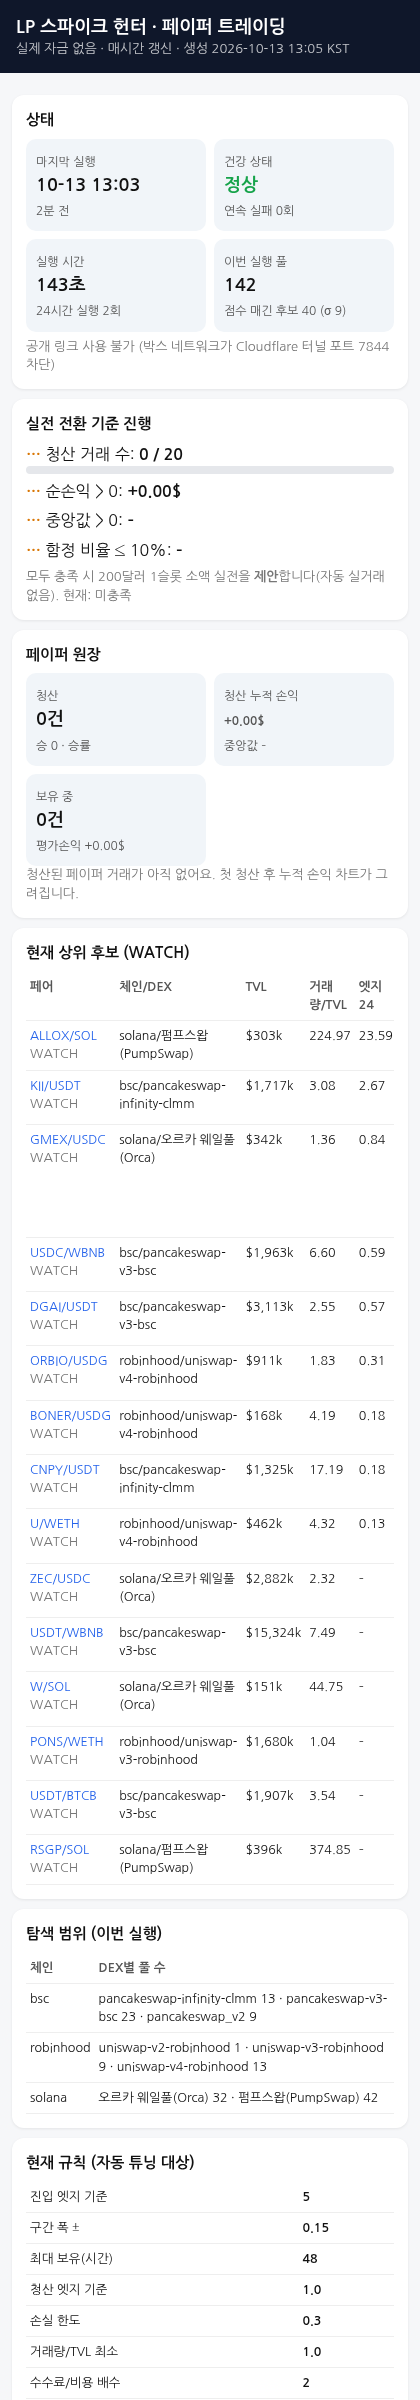
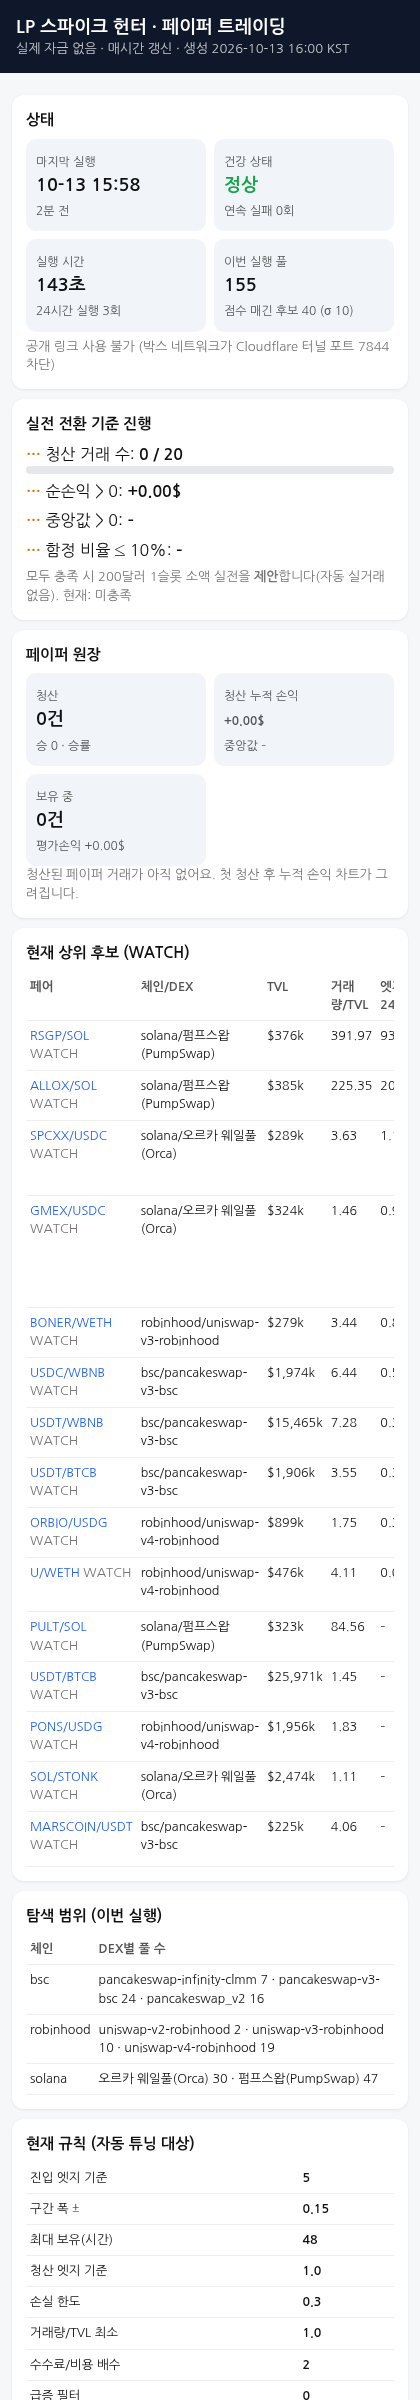
update 2026-10-13 16:00 KST

diff --git a/index.html b/index.html
@@ -12,12 +12,12 @@ th{color:#555;font-weight:600} .scroll{overflow-x:auto} .pos{color:#16a34a} .neg
 .bar{height:8px;background:#e5e7eb;border-radius:4px;overflow:hidden} .bar i{display:block;height:100%;background:#2563eb}
 .chart{width:100%;height:auto} a{color:#2563eb;text-decoration:none} .chg{color:#7c3aed;font-weight:600}
 </style></head><body>
-<header><h1>LP 스파이크 헌터 · 페이퍼 트레이딩</h1><div class="sub">실제 자금 없음 · 매시간 갱신 · 생성 2026-10-13 13:05 KST</div></header><main>
+<header><h1>LP 스파이크 헌터 · 페이퍼 트레이딩</h1><div class="sub">실제 자금 없음 · 매시간 갱신 · 생성 2026-10-13 16:00 KST</div></header><main>
 <div class="card"><h2>상태</h2><div class="grid">
-<div class="kpi"><span>마지막 실행</span><b>10-13 13:03</b><span>2분 전</span></div>
+<div class="kpi"><span>마지막 실행</span><b>10-13 15:58</b><span>2분 전</span></div>
 <div class="kpi"><span>건강 상태</span><b class="ok">정상</b><span>연속 실패 0회</span></div>
-<div class="kpi"><span>실행 시간</span><b>143초</b><span>24시간 실행 2회</span></div>
-<div class="kpi"><span>이번 실행 풀</span><b>142</b><span>점수 매긴 후보 40 (σ 9)</span></div>
+<div class="kpi"><span>실행 시간</span><b>143초</b><span>24시간 실행 3회</span></div>
+<div class="kpi"><span>이번 실행 풀</span><b>155</b><span>점수 매긴 후보 40 (σ 10)</span></div>
 </div><div class="muted" style="margin-top:6px">공개 링크 사용 불가 (박스 네트워크가 Cloudflare 터널 포트 7844 차단)</div></div>
 <div class="card"><h2>실전 전환 기준 진행</h2>
 <div style="margin:6px 0"><b class="warn">…</b> 청산 거래 수: <b>0 / 20</b><div class="bar"><i style="width:0%"></i></div></div>
@@ -32,26 +32,26 @@ th{color:#555;font-weight:600} .scroll{overflow-x:auto} .pos{color:#16a34a} .neg
 </div><div class="muted">청산된 페이퍼 거래가 아직 없어요. 첫 청산 후 누적 손익 차트가 그려집니다.</div>
 </div>
 <div class="card"><h2>현재 상위 후보 (WATCH)</h2><div class="scroll"><table><tr><th>페어</th><th>체인/DEX</th><th>TVL</th><th>거래량/TVL</th><th>엣지24</th><th>엣지6</th><th>진입 안 하는 이유</th></tr>
-<tr><td><a href='https://www.geckoterminal.com/solana/pools/2Ufupi3yBNNHRknEfag4eNTEyDPx6UN4uWd7mmAoVNpy'>ALLOX/SOL</a> <span class='muted'>WATCH</span></td><td>solana/펌프스왑(PumpSwap)</td><td>$303k</td><td>224.97</td><td>23.59</td><td>50.49</td><td><span class="tag">너무 신규</span></td></tr>
-<tr><td><a href='https://www.geckoterminal.com/bsc/pools/0xf43fdb854021ddeb41e06ac1d6e5df475197038ba5d3cba147f469a56870cd1b'>KII/USDT</a> <span class='muted'>WATCH</span></td><td>bsc/pancakeswap-infinity-clmm</td><td>$1,717k</td><td>3.08</td><td>2.67</td><td>4.42</td><td><span class="tag">24h 엣지 부족 (edge24&lt;5)</span><span class="tag">6h 엣지 부족 (edge6&lt;5)</span><span class="tag">보안 플래그 (security:top10_holders=99%)</span><span class="tag">수수료&lt;비용 (fee24&lt;2x_cost)</span></td></tr>
-<tr><td><a href='https://www.geckoterminal.com/solana/pools/hSQxf9L7Tpwf1PKjWWSbnew2vyTPpGrfWwNa4gq2n2x'>GMEX/USDC</a> <span class='muted'>WATCH</span></td><td>solana/오르카 웨일풀(Orca)</td><td>$342k</td><td>1.36</td><td>0.84</td><td>0.24</td><td><span class="tag">24h 엣지 부족 (edge24&lt;5)</span><span class="tag">6h 엣지 부족 (edge6&lt;5)</span><span class="tag">보안 플래그 (security:mintable|freezable|balance_mutable_authority|transfer_hook_upgradable|top10_holders=98%)</span><span class="tag">수수료&lt;비용 (fee24&lt;2x_cost)</span><span class="tag">유동성 이력 부족(&lt;3h) (k_unsettled(&lt;3h liquidity history))</span><span class="tag">토큰-2022 위험 확장 (t22:GMEX.pausableConfig|GMEX.permanentDelegate)</span></td></tr>
-<tr><td><a href='https://www.geckoterminal.com/bsc/pools/0xf2688fb5b81049dfb7703ada5e770543770612c4'>USDC/WBNB</a> <span class='muted'>WATCH</span></td><td>bsc/pancakeswap-v3-bsc</td><td>$1,963k</td><td>6.60</td><td>0.59</td><td>0.87</td><td><span class="tag">24h 엣지 부족 (edge24&lt;5)</span><span class="tag">6h 엣지 부족 (edge6&lt;5)</span><span class="tag">수수료&lt;비용 (fee24&lt;2x_cost)</span><span class="tag">유동성 이력 부족(&lt;3h) (k_unsettled(&lt;3h liquidity history))</span></td></tr>
-<tr><td><a href='https://www.geckoterminal.com/bsc/pools/0x0e6e1f47c64f517fc9dc35698718c7dfc708d534'>DGAI/USDT</a> <span class='muted'>WATCH</span></td><td>bsc/pancakeswap-v3-bsc</td><td>$3,113k</td><td>2.55</td><td>0.57</td><td>0.64</td><td><span class="tag">24h 엣지 부족 (edge24&lt;5)</span><span class="tag">6h 엣지 부족 (edge6&lt;5)</span><span class="tag">보안 플래그 (security:mintable)</span><span class="tag">수수료&lt;비용 (fee24&lt;2x_cost)</span><span class="tag">유동성 이력 부족(&lt;3h) (k_unsettled(&lt;3h liquidity history))</span></td></tr>
-<tr><td><a href='https://www.geckoterminal.com/robinhood/pools/0xea9f200e13055b82f175f44f592c4c13dd8c9d9320a66487d3c5cd90d68550ef'>ORBIO/USDG</a> <span class='muted'>WATCH</span></td><td>robinhood/uniswap-v4-robinhood</td><td>$911k</td><td>1.83</td><td>0.31</td><td>0.25</td><td><span class="tag">24h 엣지 부족 (edge24&lt;5)</span><span class="tag">6h 엣지 부족 (edge6&lt;5)</span><span class="tag">보안 플래그 (security:security_unchecked)</span><span class="tag">유동성 이력 부족(&lt;3h) (k_unsettled(&lt;3h liquidity history))</span></td></tr>
-<tr><td><a href='https://www.geckoterminal.com/robinhood/pools/0xfec7b1efe77aa60887986db5bcbfff39ca40b56d964bb8ce3d9dd0d9baaca4d4'>BONER/USDG</a> <span class='muted'>WATCH</span></td><td>robinhood/uniswap-v4-robinhood</td><td>$168k</td><td>4.19</td><td>0.18</td><td>0.47</td><td><span class="tag">24h 엣지 부족 (edge24&lt;5)</span><span class="tag">6h 엣지 부족 (edge6&lt;5)</span><span class="tag">보안 플래그 (security:security_unchecked)</span><span class="tag">유동성 이력 부족(&lt;3h) (k_unsettled(&lt;3h liquidity history))</span></td></tr>
-<tr><td><a href='https://www.geckoterminal.com/bsc/pools/0xc7bb4cf4c51fd655ea0368255929f1a42ba1a67e1e8805c54e81d61dc28f3f74'>CNPY/USDT</a> <span class='muted'>WATCH</span></td><td>bsc/pancakeswap-infinity-clmm</td><td>$1,325k</td><td>17.19</td><td>0.18</td><td>0.19</td><td><span class="tag">24h 엣지 부족 (edge24&lt;5)</span><span class="tag">6h 엣지 부족 (edge6&lt;5)</span><span class="tag">보안 플래그 (security:mintable|top10_holders=76%)</span></td></tr>
-<tr><td><a href='https://www.geckoterminal.com/robinhood/pools/0xa5d2fa75a050327b6a0e3a6020994fea5a9df413e0e031045399411e1616b2e3'>U/WETH</a> <span class='muted'>WATCH</span></td><td>robinhood/uniswap-v4-robinhood</td><td>$462k</td><td>4.32</td><td>0.13</td><td>0.25</td><td><span class="tag">24h 엣지 부족 (edge24&lt;5)</span><span class="tag">6h 엣지 부족 (edge6&lt;5)</span><span class="tag">보안 플래그 (security:security_unchecked)</span><span class="tag">수수료&lt;비용 (fee24&lt;2x_cost)</span><span class="tag">유동성 이력 부족(&lt;3h) (k_unsettled(&lt;3h liquidity history))</span></td></tr>
-<tr><td><a href='https://www.geckoterminal.com/solana/pools/GTHKH8s82ZR8GTSFZ1dUu6wfdxhy59wpMShxzG5zjiPm'>ZEC/USDC</a> <span class='muted'>WATCH</span></td><td>solana/오르카 웨일풀(Orca)</td><td>$2,882k</td><td>2.32</td><td>–</td><td>–</td><td><span class="tag">변동성 데이터 없음</span><span class="tag">24h 엣지 부족 (edge24&lt;5)</span><span class="tag">6h 엣지 부족 (edge6&lt;5)</span><span class="tag">보안 플래그 (security:security_unchecked)</span><span class="tag">유동성 이력 부족(&lt;3h) (k_unsettled(&lt;3h liquidity history))</span></td></tr>
-<tr><td><a href='https://www.geckoterminal.com/bsc/pools/0x172fcd41e0913e95784454622d1c3724f546f849'>USDT/WBNB</a> <span class='muted'>WATCH</span></td><td>bsc/pancakeswap-v3-bsc</td><td>$15,324k</td><td>7.49</td><td>–</td><td>–</td><td><span class="tag">변동성 데이터 없음</span><span class="tag">24h 엣지 부족 (edge24&lt;5)</span><span class="tag">6h 엣지 부족 (edge6&lt;5)</span><span class="tag">유동성 이력 부족(&lt;3h) (k_unsettled(&lt;3h liquidity history))</span></td></tr>
-<tr><td><a href='https://www.geckoterminal.com/solana/pools/CwHuXNNkj5inuj2ZXaU1DtjA5Nxfoiy4nNoc1PQQJxTR'>W/SOL</a> <span class='muted'>WATCH</span></td><td>solana/오르카 웨일풀(Orca)</td><td>$151k</td><td>44.75</td><td>–</td><td>–</td><td><span class="tag">변동성 데이터 없음</span><span class="tag">24h 엣지 부족 (edge24&lt;5)</span><span class="tag">6h 엣지 부족 (edge6&lt;5)</span><span class="tag">유동성 이력 부족(&lt;3h) (k_unsettled(&lt;3h liquidity history))</span></td></tr>
-<tr><td><a href='https://www.geckoterminal.com/robinhood/pools/0xed50bdeea8adc232f159486192a4157281d722ff'>PONS/WETH</a> <span class='muted'>WATCH</span></td><td>robinhood/uniswap-v3-robinhood</td><td>$1,680k</td><td>1.04</td><td>–</td><td>–</td><td><span class="tag">변동성 데이터 없음</span><span class="tag">24h 엣지 부족 (edge24&lt;5)</span><span class="tag">6h 엣지 부족 (edge6&lt;5)</span><span class="tag">유동성 이력 부족(&lt;3h) (k_unsettled(&lt;3h liquidity history))</span></td></tr>
-<tr><td><a href='https://www.geckoterminal.com/bsc/pools/0x247f51881d1e3ae0f759afb801413a6c948ef442'>USDT/BTCB</a> <span class='muted'>WATCH</span></td><td>bsc/pancakeswap-v3-bsc</td><td>$1,907k</td><td>3.54</td><td>–</td><td>–</td><td><span class="tag">변동성 데이터 없음</span><span class="tag">24h 엣지 부족 (edge24&lt;5)</span><span class="tag">6h 엣지 부족 (edge6&lt;5)</span><span class="tag">유동성 이력 부족(&lt;3h) (k_unsettled(&lt;3h liquidity history))</span></td></tr>
-<tr><td><a href='https://www.geckoterminal.com/solana/pools/D3vzKTEJntE3wSu4QaPd79e2bnifnHggVDVewu1ukkAJ'>RSGP/SOL</a> <span class='muted'>WATCH</span></td><td>solana/펌프스왑(PumpSwap)</td><td>$396k</td><td>374.85</td><td>–</td><td>–</td><td><span class="tag">변동성 데이터 없음</span><span class="tag">24h 엣지 부족 (edge24&lt;5)</span><span class="tag">6h 엣지 부족 (edge6&lt;5)</span></td></tr>
+<tr><td><a href='https://www.geckoterminal.com/solana/pools/D3vzKTEJntE3wSu4QaPd79e2bnifnHggVDVewu1ukkAJ'>RSGP/SOL</a> <span class='muted'>WATCH</span></td><td>solana/펌프스왑(PumpSwap)</td><td>$376k</td><td>391.97</td><td>93.13</td><td>95.19</td><td><span class="tag">보안 플래그 (security:security_unchecked)</span></td></tr>
+<tr><td><a href='https://www.geckoterminal.com/solana/pools/2Ufupi3yBNNHRknEfag4eNTEyDPx6UN4uWd7mmAoVNpy'>ALLOX/SOL</a> <span class='muted'>WATCH</span></td><td>solana/펌프스왑(PumpSwap)</td><td>$385k</td><td>225.35</td><td>20.75</td><td>35.86</td><td><span class="tag">너무 신규</span></td></tr>
+<tr><td><a href='https://www.geckoterminal.com/solana/pools/ASAxmEaTT1HFe3mVC3zbKDE4tuB28W7732XQrEMBM5W2'>SPCXX/USDC</a> <span class='muted'>WATCH</span></td><td>solana/오르카 웨일풀(Orca)</td><td>$289k</td><td>3.63</td><td>1.13</td><td>0.64</td><td><span class="tag">24h 엣지 부족 (edge24&lt;5)</span><span class="tag">6h 엣지 부족 (edge6&lt;5)</span><span class="tag">보안 플래그 (security:security_unchecked)</span><span class="tag">수수료&lt;비용 (fee24&lt;2x_cost)</span><span class="tag">토큰-2022 위험 확장 (t22:SPCXX.pausableConfig|SPCXX.permanentDelegate)</span></td></tr>
+<tr><td><a href='https://www.geckoterminal.com/solana/pools/hSQxf9L7Tpwf1PKjWWSbnew2vyTPpGrfWwNa4gq2n2x'>GMEX/USDC</a> <span class='muted'>WATCH</span></td><td>solana/오르카 웨일풀(Orca)</td><td>$324k</td><td>1.46</td><td>0.99</td><td>0.19</td><td><span class="tag">24h 엣지 부족 (edge24&lt;5)</span><span class="tag">6h 엣지 부족 (edge6&lt;5)</span><span class="tag">보안 플래그 (security:mintable|freezable|balance_mutable_authority|transfer_hook_upgradable|top10_holders=98%)</span><span class="tag">수수료&lt;비용 (fee24&lt;2x_cost)</span><span class="tag">토큰-2022 위험 확장 (t22:GMEX.pausableConfig|GMEX.permanentDelegate)</span></td></tr>
+<tr><td><a href='https://www.geckoterminal.com/robinhood/pools/0xbd5cd6515ca6285941fbc177381dc8ed4844e6b8'>BONER/WETH</a> <span class='muted'>WATCH</span></td><td>robinhood/uniswap-v3-robinhood</td><td>$279k</td><td>3.44</td><td>0.80</td><td>0.90</td><td><span class="tag">24h 엣지 부족 (edge24&lt;5)</span><span class="tag">6h 엣지 부족 (edge6&lt;5)</span><span class="tag">보안 플래그 (security:security_unchecked)</span></td></tr>
+<tr><td><a href='https://www.geckoterminal.com/bsc/pools/0xf2688fb5b81049dfb7703ada5e770543770612c4'>USDC/WBNB</a> <span class='muted'>WATCH</span></td><td>bsc/pancakeswap-v3-bsc</td><td>$1,974k</td><td>6.44</td><td>0.55</td><td>0.50</td><td><span class="tag">24h 엣지 부족 (edge24&lt;5)</span><span class="tag">6h 엣지 부족 (edge6&lt;5)</span><span class="tag">수수료&lt;비용 (fee24&lt;2x_cost)</span></td></tr>
+<tr><td><a href='https://www.geckoterminal.com/bsc/pools/0x172fcd41e0913e95784454622d1c3724f546f849'>USDT/WBNB</a> <span class='muted'>WATCH</span></td><td>bsc/pancakeswap-v3-bsc</td><td>$15,465k</td><td>7.28</td><td>0.39</td><td>0.36</td><td><span class="tag">24h 엣지 부족 (edge24&lt;5)</span><span class="tag">6h 엣지 부족 (edge6&lt;5)</span><span class="tag">수수료&lt;비용 (fee24&lt;2x_cost)</span></td></tr>
+<tr><td><a href='https://www.geckoterminal.com/bsc/pools/0x247f51881d1e3ae0f759afb801413a6c948ef442'>USDT/BTCB</a> <span class='muted'>WATCH</span></td><td>bsc/pancakeswap-v3-bsc</td><td>$1,906k</td><td>3.55</td><td>0.38</td><td>0.36</td><td><span class="tag">24h 엣지 부족 (edge24&lt;5)</span><span class="tag">6h 엣지 부족 (edge6&lt;5)</span><span class="tag">수수료&lt;비용 (fee24&lt;2x_cost)</span></td></tr>
+<tr><td><a href='https://www.geckoterminal.com/robinhood/pools/0xea9f200e13055b82f175f44f592c4c13dd8c9d9320a66487d3c5cd90d68550ef'>ORBIO/USDG</a> <span class='muted'>WATCH</span></td><td>robinhood/uniswap-v4-robinhood</td><td>$899k</td><td>1.75</td><td>0.31</td><td>0.25</td><td><span class="tag">24h 엣지 부족 (edge24&lt;5)</span><span class="tag">6h 엣지 부족 (edge6&lt;5)</span><span class="tag">보안 플래그 (security:security_unchecked)</span></td></tr>
+<tr><td><a href='https://www.geckoterminal.com/robinhood/pools/0xa5d2fa75a050327b6a0e3a6020994fea5a9df413e0e031045399411e1616b2e3'>U/WETH</a> <span class='muted'>WATCH</span></td><td>robinhood/uniswap-v4-robinhood</td><td>$476k</td><td>4.11</td><td>0.03</td><td>0.04</td><td><span class="tag">24h 엣지 부족 (edge24&lt;5)</span><span class="tag">6h 엣지 부족 (edge6&lt;5)</span><span class="tag">보안 플래그 (security:security_unchecked)</span><span class="tag">수수료&lt;비용 (fee24&lt;2x_cost)</span><span class="tag">유동성 이력 부족(&lt;3h) (k_unsettled(&lt;3h liquidity history))</span></td></tr>
+<tr><td><a href='https://www.geckoterminal.com/solana/pools/7mHdMhMnEpXSjF6hoj2wxRnzkSE1KwePq5UErjwnrLs7'>PULT/SOL</a> <span class='muted'>WATCH</span></td><td>solana/펌프스왑(PumpSwap)</td><td>$323k</td><td>84.56</td><td>–</td><td>–</td><td><span class="tag">변동성 데이터 없음</span><span class="tag">24h 엣지 부족 (edge24&lt;5)</span><span class="tag">6h 엣지 부족 (edge6&lt;5)</span><span class="tag">너무 신규</span></td></tr>
+<tr><td><a href='https://www.geckoterminal.com/bsc/pools/0x46cf1cf8c69595804ba91dfdd8d6b960c9b0a7c4'>USDT/BTCB</a> <span class='muted'>WATCH</span></td><td>bsc/pancakeswap-v3-bsc</td><td>$25,971k</td><td>1.45</td><td>–</td><td>–</td><td><span class="tag">변동성 데이터 없음</span><span class="tag">24h 엣지 부족 (edge24&lt;5)</span><span class="tag">6h 엣지 부족 (edge6&lt;5)</span></td></tr>
+<tr><td><a href='https://www.geckoterminal.com/robinhood/pools/0x4be9657ec9002e528f4f17a5c43edc525a07f888f7b180c2afbf75e096c4f38a'>PONS/USDG</a> <span class='muted'>WATCH</span></td><td>robinhood/uniswap-v4-robinhood</td><td>$1,956k</td><td>1.83</td><td>–</td><td>–</td><td><span class="tag">변동성 데이터 없음</span><span class="tag">24h 엣지 부족 (edge24&lt;5)</span><span class="tag">6h 엣지 부족 (edge6&lt;5)</span></td></tr>
+<tr><td><a href='https://www.geckoterminal.com/solana/pools/AfrddTGYwCVEQB1gxCAhR8i48o6qtxYqksdVkeLudEhg'>SOL/STONK</a> <span class='muted'>WATCH</span></td><td>solana/오르카 웨일풀(Orca)</td><td>$2,474k</td><td>1.11</td><td>–</td><td>–</td><td><span class="tag">변동성 데이터 없음</span><span class="tag">24h 엣지 부족 (edge24&lt;5)</span><span class="tag">6h 엣지 부족 (edge6&lt;5)</span></td></tr>
+<tr><td><a href='https://www.geckoterminal.com/bsc/pools/0x14ca9d552ed2cf0d5dfd1f89bc6793a464e2ed16'>MARSCOIN/USDT</a> <span class='muted'>WATCH</span></td><td>bsc/pancakeswap-v3-bsc</td><td>$225k</td><td>4.06</td><td>–</td><td>–</td><td><span class="tag">변동성 데이터 없음</span><span class="tag">24h 엣지 부족 (edge24&lt;5)</span><span class="tag">6h 엣지 부족 (edge6&lt;5)</span><span class="tag">보안 플래그 (security:top10_holders=61%)</span><span class="tag">유동성 이력 부족(&lt;3h) (k_unsettled(&lt;3h liquidity history))</span></td></tr>
 </table></div></div>
 <div class="card"><h2>탐색 범위 (이번 실행)</h2><table><tr><th>체인</th><th>DEX별 풀 수</th></tr>
-<tr><td>bsc</td><td>pancakeswap-infinity-clmm 13 · pancakeswap-v3-bsc 23 · pancakeswap_v2 9</td></tr>
-<tr><td>robinhood</td><td>uniswap-v2-robinhood 1 · uniswap-v3-robinhood 9 · uniswap-v4-robinhood 13</td></tr>
-<tr><td>solana</td><td>오르카 웨일풀(Orca) 32 · 펌프스왑(PumpSwap) 42</td></tr>
+<tr><td>bsc</td><td>pancakeswap-infinity-clmm 7 · pancakeswap-v3-bsc 24 · pancakeswap_v2 16</td></tr>
+<tr><td>robinhood</td><td>uniswap-v2-robinhood 2 · uniswap-v3-robinhood 10 · uniswap-v4-robinhood 19</td></tr>
+<tr><td>solana</td><td>오르카 웨일풀(Orca) 30 · 펌프스왑(PumpSwap) 47</td></tr>
 </table></div>
 <div class="card"><h2>현재 규칙 (자동 튜닝 대상)</h2><table>
 <tr><td>진입 엣지 기준</td><td><b>5</b></td></tr>
@@ -63,6 +63,7 @@ th{color:#555;font-weight:600} .scroll{overflow-x:auto} .pos{color:#16a34a} .neg
 <tr><td>수수료/비용 배수</td><td><b>2</b></td></tr>
 <tr><td>급증 필터</td><td><b>0</b></td></tr>
 </table><h2 style="margin-top:12px">튜닝 기록 (최근)</h2>
+<div style="margin:6px 0;font-size:13px"><b class="muted">2026-10-13 16:00 KST</b> 유지 2026-10-13 16:00 KST: {&#x27;E&#x27;: 5, &#x27;W&#x27;: 0.15, &#x27;H&#x27;: 48, &#x27;X&#x27;: 1.0, &#x27;LL&#x27;: 0.3, &#x27;T&#x27;: 1.0, &#x27;FC&#x27;: 2} 유지. 이유: no improve (mean +7.11%→+7.06%, median +3.21%→+3.08%). 현재 OOS n=53 hit 81% mean +7.11% median +3.21% Σ $+753 / 후보 {&#x27;E&#x27;: 5, &#x27;W&#x27;: 0.15, &#x27;H&#x27;: 48, &#x27;X&#x27;: 0.5, &#x27;LL&#x27;: 0.3, &#x27;T&#x27;: 1.0, &#x27;FC&#x27;: 1} OOS n=53 hit 81% mean +7.06% median +3.08% Σ $+748. 페이퍼 청산 0건 Σ $+0.00. (3.6s)</div>
 <div style="margin:6px 0;font-size:13px"><b class="muted">2026-10-13 13:05 KST</b> 유지 2026-10-13 13:05 KST: {&#x27;E&#x27;: 5, &#x27;W&#x27;: 0.15, &#x27;H&#x27;: 48, &#x27;X&#x27;: 1.0, &#x27;LL&#x27;: 0.3, &#x27;T&#x27;: 1.0, &#x27;FC&#x27;: 2} 유지. 이유: no improve (mean +7.11%→+7.06%, median +3.21%→+3.08%). 현재 OOS n=53 hit 81% mean +7.11% median +3.21% Σ $+753 / 후보 {&#x27;E&#x27;: 5, &#x27;W&#x27;: 0.15, &#x27;H&#x27;: 48, &#x27;X&#x27;: 0.5, &#x27;LL&#x27;: 0.3, &#x27;T&#x27;: 1.0, &#x27;FC&#x27;: 1} OOS n=53 hit 81% mean +7.06% median +3.08% Σ $+748. 페이퍼 청산 0건 Σ $+0.00. (4.1s)</div>
 <div style="margin:6px 0;font-size:13px"><b class="muted">2026-10-13 11:48 KST</b> 유지 2026-10-13 11:48 KST: {&#x27;E&#x27;: 5, &#x27;W&#x27;: 0.15, &#x27;H&#x27;: 48, &#x27;X&#x27;: 1.0, &#x27;LL&#x27;: 0.3, &#x27;T&#x27;: 1.0, &#x27;FC&#x27;: 2} 유지. 이유: no improve (mean +7.11%→+7.06%, median +3.21%→+3.08%). 현재 OOS n=53 hit 81% mean +7.11% median +3.21% Σ $+753 / 후보 {&#x27;E&#x27;: 5, &#x27;W&#x27;: 0.15, &#x27;H&#x27;: 48, &#x27;X&#x27;: 0.5, &#x27;LL&#x27;: 0.3, &#x27;T&#x27;: 1.0, &#x27;FC&#x27;: 1} OOS n=53 hit 81% mean +7.06% median +3.08% Σ $+748. 페이퍼 청산 0건 Σ $+0.00. (4.0s)</div>
 <div style="margin:6px 0;font-size:13px"><b class="muted">2026-10-08 22:16 KST</b> 유지 2026-10-08 22:16 KST: {&#x27;E&#x27;: 5, &#x27;W&#x27;: 0.15, &#x27;H&#x27;: 48, &#x27;X&#x27;: 1.0, &#x27;LL&#x27;: 0.3, &#x27;T&#x27;: 1.0, &#x27;FC&#x27;: 2} 유지. 이유: no improve (mean +7.11%→+7.06%, median +3.21%→+3.08%). 현재 OOS n=53 hit 81% mean +7.11% median +3.21% Σ $+753 / 후보 {&#x27;E&#x27;: 5, &#x27;W&#x27;: 0.15, &#x27;H&#x27;: 48, &#x27;X&#x27;: 0.5, &#x27;LL&#x27;: 0.3, &#x27;T&#x27;: 1.0, &#x27;FC&#x27;: 1} OOS n=53 hit 81% mean +7.06% median +3.08% Σ $+748. 페이퍼 청산 0건 Σ $+0.00. (5.5s)</div>
